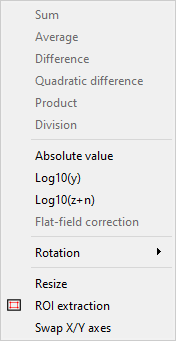
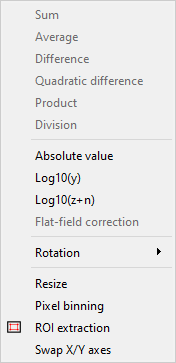
Added pixel binning operation

diff --git a/codraft/core/gui/processor/image.py b/codraft/core/gui/processor/image.py
@@ -24,6 +24,8 @@ from skimage.restoration import denoise_bilateral, denoise_tv_chambolle, denoise
 
 from codraft.config import APP_NAME, _
 from codraft.core.computation.image import (
+    BINNING_OPERATIONS,
+    binning,
     distance_matrix,
     flatfield,
     get_2d_peaks_coords,
@@ -114,6 +116,29 @@ class ResizeParam(DataSet):
     ).set_prop("display", active=prop)
 
 
+class BinningParam(DataSet):
+    """Binning parameters"""
+
+    binning_x = IntItem(
+        _("Cluster size (X)"),
+        default=2,
+        min=2,
+        help=_("Number of adjacent pixels to be combined together along X-axis."),
+    )
+    binning_y = IntItem(
+        _("Cluster size (Y)"),
+        default=2,
+        min=2,
+        help=_("Number of adjacent pixels to be combined together along Y-axis."),
+    )
+    _operations = BINNING_OPERATIONS
+    operation = ChoiceItem(
+        _("Operation"),
+        list(zip(_operations, _operations)),
+        default=_operations[0],
+    )
+
+
 class FlatFieldParam(BaseProcParam):
     """Flat-field parameters"""
 
@@ -175,7 +200,7 @@ class DenoiseBilateralParam(DataSet):
         ),
     )
     _modelist = ("constant", "edge", "symmetric", "reflect", "wrap")
-    mode = ChoiceItem(_("Mode"), zip(_modelist, _modelist), default="constant")
+    mode = ChoiceItem(_("Mode"), list(zip(_modelist, _modelist)), default="constant")
     cval = FloatItem(
         "cval",
         default=0,
@@ -190,11 +215,13 @@ class DenoiseWaveletParam(DataSet):
     """Wavelet denoising parameters"""
 
     _wavelist = pywt.wavelist()
-    wavelet = ChoiceItem(_("Wavelet"), zip(_wavelist, _wavelist), default="sym9")
+    wavelet = ChoiceItem(_("Wavelet"), list(zip(_wavelist, _wavelist)), default="sym9")
     _modelist = ("soft", "hard")
-    mode = ChoiceItem(_("Mode"), zip(_modelist, _modelist), default="soft")
+    mode = ChoiceItem(_("Mode"), list(zip(_modelist, _modelist)), default="soft")
     _methlist = ("BayesShrink", "VisuShrink")
-    method = ChoiceItem(_("Method"), zip(_methlist, _methlist), default="VisuShrink")
+    method = ChoiceItem(
+        _("Method"), list(zip(_methlist, _methlist)), default="VisuShrink"
+    )
 
 
 class TopHatParam(DataSet):
@@ -322,7 +349,7 @@ class ImageProcessor(BaseProcessor):
             func_obj=lambda obj: obj.remove_resultshapes(),
         )
 
-    def resize_image(self, param: ResizeParam = None) -> None:
+    def resize(self, param: ResizeParam = None) -> None:
         """Resize image"""
         obj0 = self.objlist.get_sel_object(0)
         for obj in self.objlist.get_sel_objects():
@@ -368,6 +395,31 @@ class ImageProcessor(BaseProcessor):
             ),
             param,
             suffix=lambda p: f"zoom={p.zoom:.3f}",
+            func_obj=func_obj,
+            edit=edit,
+        )
+
+    def rebin(self, param: BinningParam = None) -> None:
+        """Binning image"""
+        edit = param is None
+        if edit:
+            param = BinningParam(_("Binning"))
+
+        def func_obj(obj, param):
+            """Binning function"""
+            if obj.dx is not None and obj.dy is not None:
+                obj.dx *= param.binning_x
+                obj.dy *= param.binning_y
+            # TODO: [P2] Instead of removing geometric shapes, apply zoom
+            obj.remove_resultshapes()
+
+        self.compute_11(
+            "PixelBinning",
+            lambda x, p: binning(
+                x, binning_x=p.binning_x, binning_y=p.binning_y, operation=p.operation
+            ),
+            param,
+            suffix=lambda p: f"{p.binning_x}x{p.binning_y},{p.operation}",
             func_obj=func_obj,
             edit=edit,
         )

diff --git a/codraft/tests/binning_unit.py b/codraft/tests/binning_unit.py
@@ -1,0 +1,69 @@
+# -*- coding: utf-8 -*-
+#
+# Licensed under the terms of the BSD 3-Clause or the CeCILL-B License
+# (see codraft/__init__.py for details)
+
+"""
+Image pixel binning computation test
+"""
+
+# pylint: disable=invalid-name  # Allows short reference names like x, y, ...
+# pylint: disable=duplicate-code
+
+import time
+
+from guiqwt.builder import make
+from numpy import ma
+
+from codraft.config import _
+from codraft.core.computation.image import BINNING_OPERATIONS, binning
+from codraft.env import execenv
+from codraft.tests.data import get_laser_spot_data
+from codraft.utils.qthelpers import qt_app_context
+from codraft.utils.vistools import view_image_items
+
+SHOW = True  # Show test in GUI-based test launcher
+
+
+def compare_binning_images(data):
+    """Compare binning images"""
+    items = []
+    items += [make.image(data, interpolation="nearest", eliminate_outliers=2.0)]
+    # Computing pixel binning
+    oa_t0 = time.time()
+    for ix in range(1, 5):
+        binning_x = 2**ix
+        for iy in range(1, 5):
+            binning_y = 2**iy
+            for operation in BINNING_OPERATIONS:
+                t0 = time.time()
+                bdata = binning(
+                    data, binning_x=binning_x, binning_y=binning_y, operation=operation
+                )
+                title = f"Binning[{binning_x}x{binning_y},{operation}]"
+                item = make.image(
+                    bdata,
+                    title=title,
+                    interpolation="nearest",
+                    eliminate_outliers=2.0,
+                    xdata=[0, data.shape[1]],
+                    ydata=[0, data.shape[0]],
+                )
+                items.append(item)
+                dt = time.time() - t0
+                execenv.print(f"    {title}: {int(dt * 1e3):d} ms")
+    oa_dt = time.time() - oa_t0
+    execenv.print(f"    Overall calculation time: {int(oa_dt * 1e3):d} ms")
+    view_image_items(items)
+
+
+def binning_test():
+    """Centroid test"""
+    with qt_app_context():
+        for data in get_laser_spot_data()[2:]:
+            execenv.print(f"Data[dtype={data.dtype},shape={data.shape}]")
+            compare_binning_images(data.view(ma.MaskedArray))
+
+
+if __name__ == "__main__":
+    binning_test()

diff --git a/codraft/core/computation/image.py b/codraft/core/computation/image.py
@@ -28,6 +28,35 @@ def scale_data_to_min_max(data: np.ndarray, zmin, zmax):
     return np.array(fdata, data.dtype)
 
 
+BINNING_OPERATIONS = ("sum", "average", "median", "min", "max")
+
+
+def binning(
+    data: np.ndarray, binning_x: int, binning_y: int, operation: str
+) -> np.ndarray:
+    """Perform image pixel binning"""
+    ny, nx = data.shape
+    shape = (ny // binning_y, binning_y, nx // binning_x, binning_x)
+    try:
+        bdata = data[: ny - ny % binning_y, : nx - nx % binning_x].reshape(shape)
+    except ValueError as err:
+        raise ValueError(f"Binning is not a multiple of image dimensions") from err
+    if operation == "sum":
+        bdata = bdata.sum(axis=(-1, 1))
+    elif operation == "average":
+        bdata = bdata.mean(axis=(-1, 1))
+    elif operation == "median":
+        bdata = ma.median(bdata, axis=(-1, 1))
+    elif operation == "min":
+        bdata = bdata.min(axis=(-1, 1))
+    elif operation == "max":
+        bdata = bdata.max(axis=(-1, 1))
+    else:
+        valid = ", ".join(BINNING_OPERATIONS)
+        raise ValueError(f"Invalid operation {operation} (valid values: {valid})")
+    return bdata
+
+
 def flatfield(rawdata: np.ndarray, flatdata: np.ndarray, threshold: float = None):
     """Compute flat-field correction"""
     dtemp = np.array(rawdata, dtype=np.float64, copy=True) * flatdata.mean()

diff --git a/codraft/core/gui/actionhandler.py b/codraft/core/gui/actionhandler.py
@@ -420,7 +420,8 @@ class ImageActionHandler(BaseActionHandler):
         rotate_act = self.cra(
             _("Rotate arbitrarily..."), triggered=proc.rotate_arbitrarily
         )
-        resize_act = self.cra(_("Resize"), triggered=proc.resize_image)
+        resize_act = self.cra(_("Resize"), triggered=proc.resize)
+        binning_act = self.cra(_("Pixel binning"), triggered=proc.rebin)
         logp1_act = self.cra("Log10(z+n)", triggered=proc.compute_logp1)
         flatfield_act = self.cra(
             _("Flat-field correction"), triggered=proc.flat_field_correction
@@ -428,6 +429,7 @@ class ImageActionHandler(BaseActionHandler):
         self.actlist_2 += [flatfield_act]
         self.actlist_1more += [
             resize_act,
+            binning_act,
             hflip_act,
             vflip_act,
             logp1_act,
@@ -447,6 +449,7 @@ class ImageActionHandler(BaseActionHandler):
             rotate_menu,
             None,
             resize_act,
+            binning_act,
         ]
         return base_actions + actions + roi_actions
 

diff --git a/codraft/tests/scenario_ima_app.py b/codraft/tests/scenario_ima_app.py
@@ -97,7 +97,7 @@ def test_image_features(win: CodraFTMainWindow, data_size: int = 150) -> None:
 
     param = ResizeParam()
     param.zoom = 1.3
-    panel.processor.resize_image(param)
+    panel.processor.resize(param)
 
     n = data_size // 10
     panel.processor.extract_roi([[n, n, data_size - n, data_size - n]])

diff --git a/doc/features/image/menu/operation.rst b/doc/features/image/menu/operation.rst
@@ -91,6 +91,11 @@ Rotation
 Resize
     Create a new image which is a resized version of each selected image.
 
+Pixel binning
+    Combine clusters of adjacent pixels, throughout the image,
+    into single pixels. The result can be the sum, average, median, minimum,
+    or maximum value of the cluster.
+
 ROI extraction
     Create a new image from a user-defined Region of Interest.
 

diff --git a/CHANGELOG.md b/CHANGELOG.md
@@ -8,6 +8,7 @@ for future and past milestones.
 New features:
 
 * Image processing:
+  * Added pixel binning operation (X/Y binning factors, operation: sum, mean, ...)
   * Added Total variation denoising filter (TV Chambolle)
   * Added Bilateral filter (denoising)
   * Added Wavelet denoising filter
